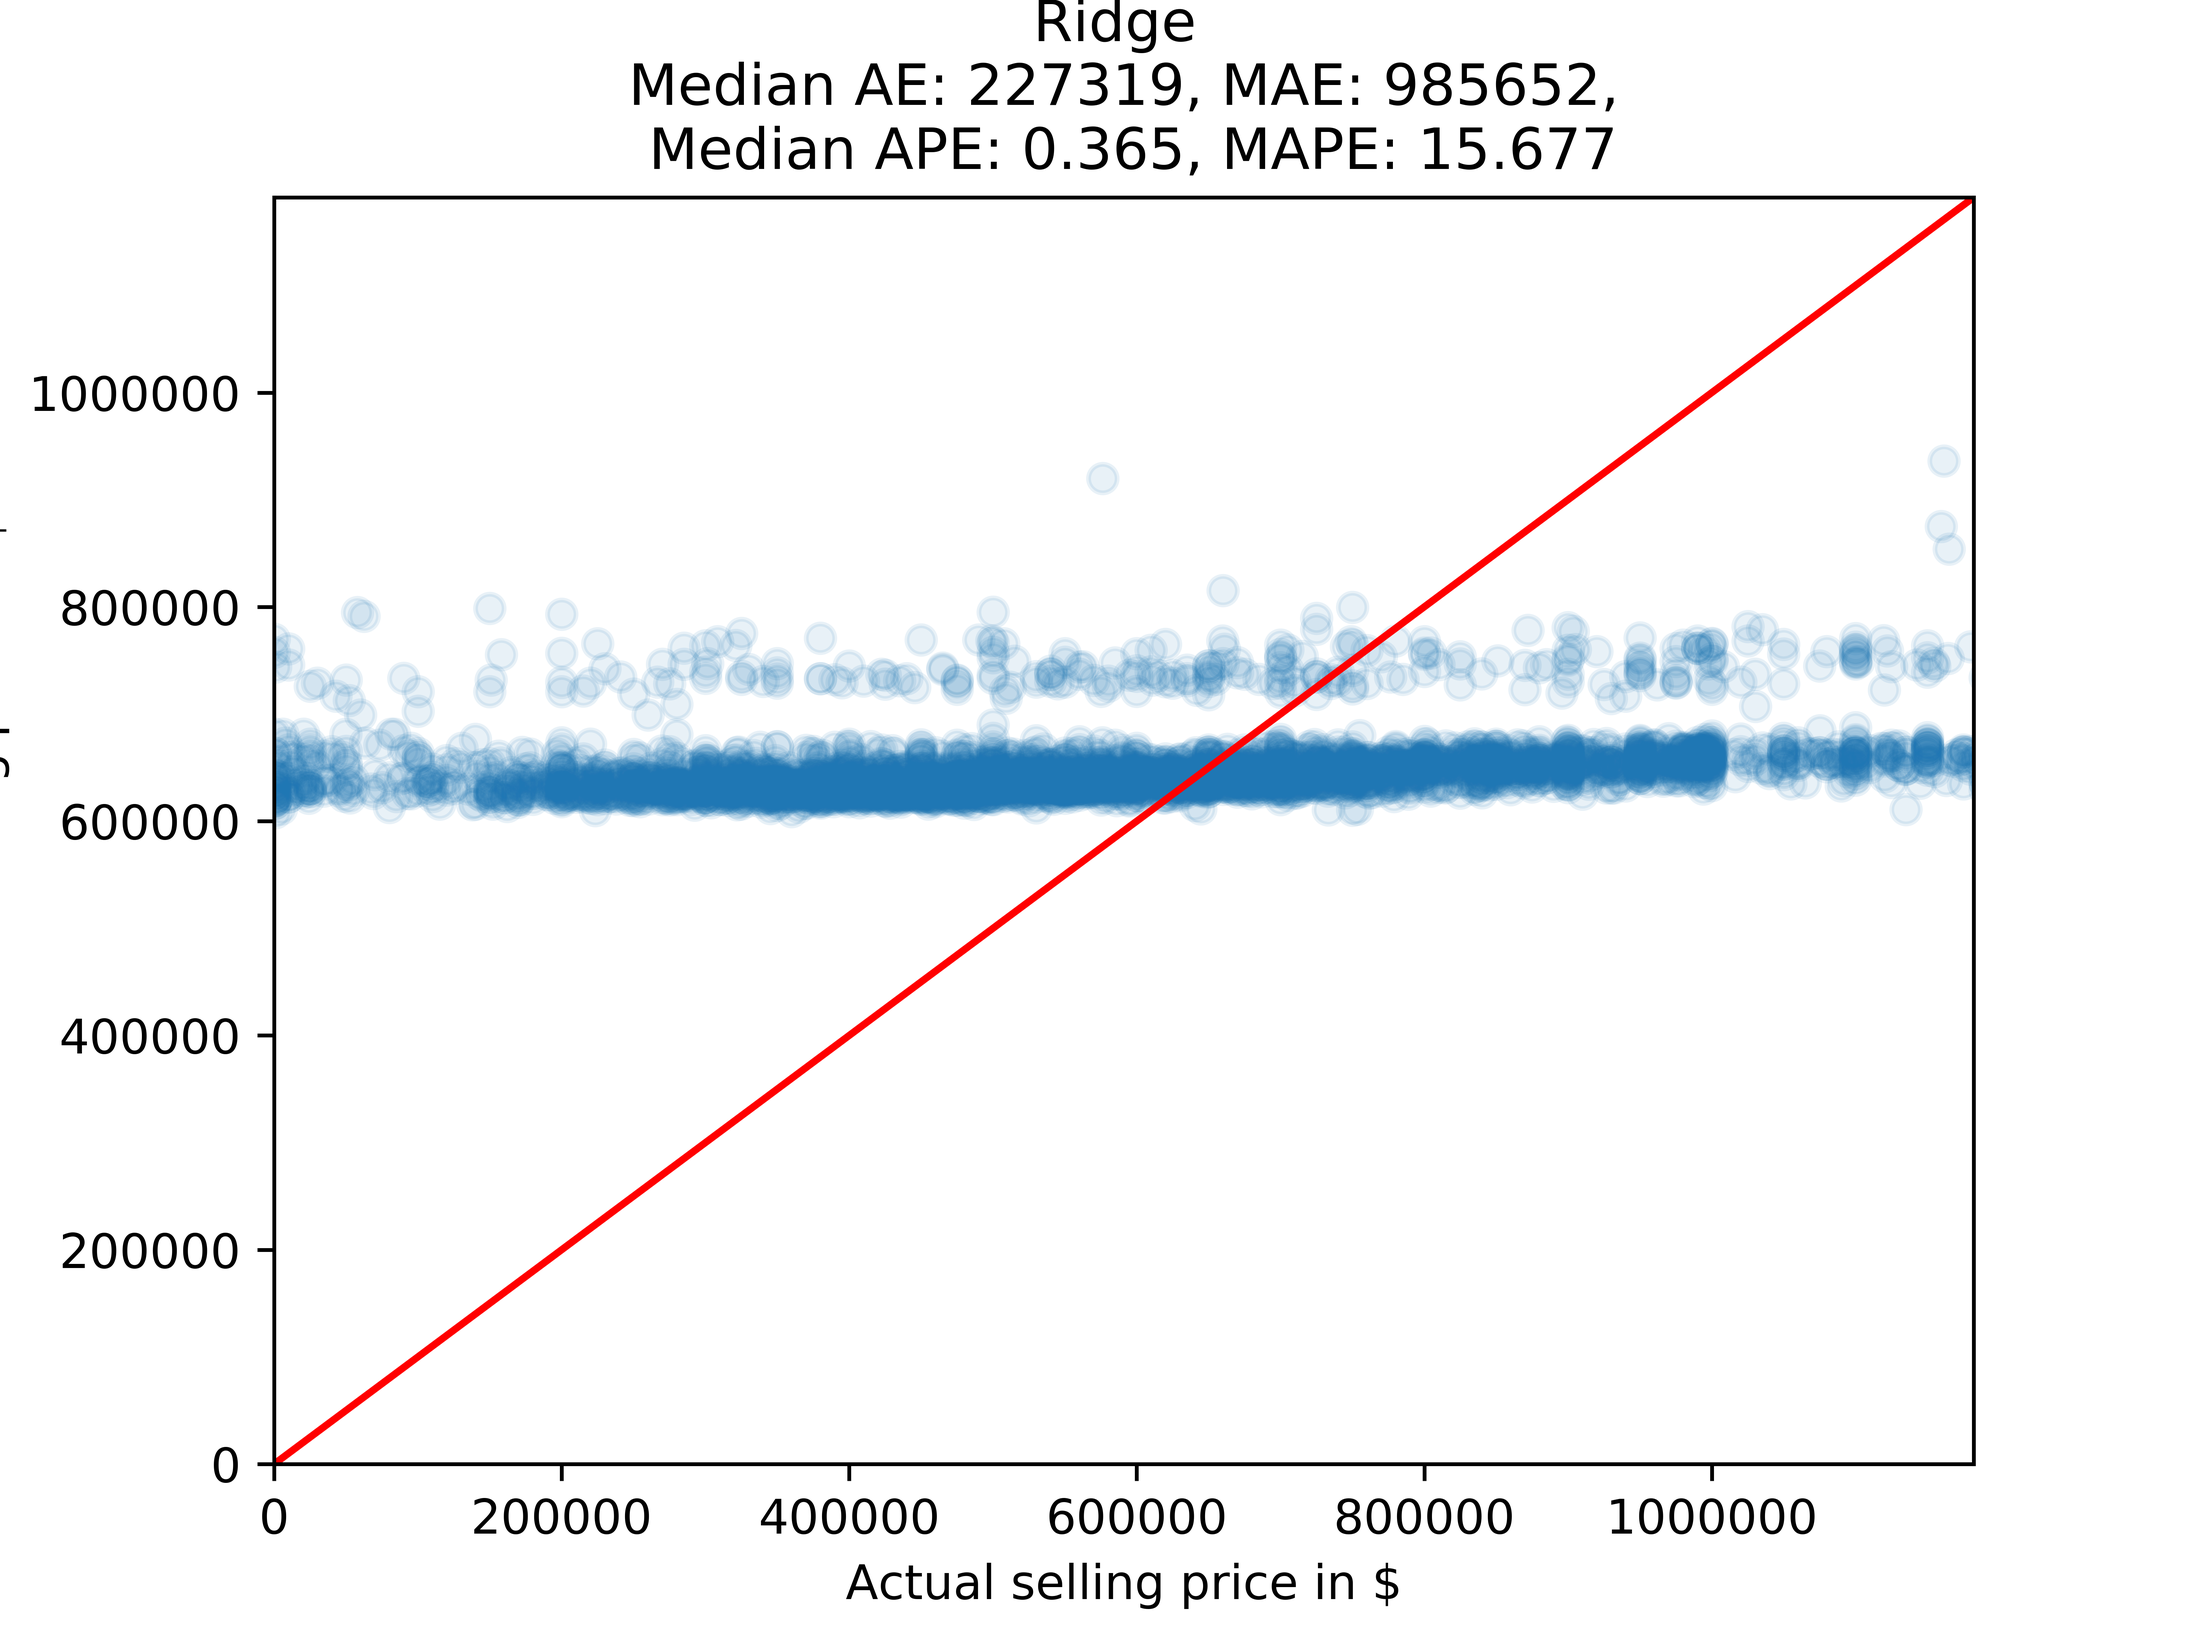
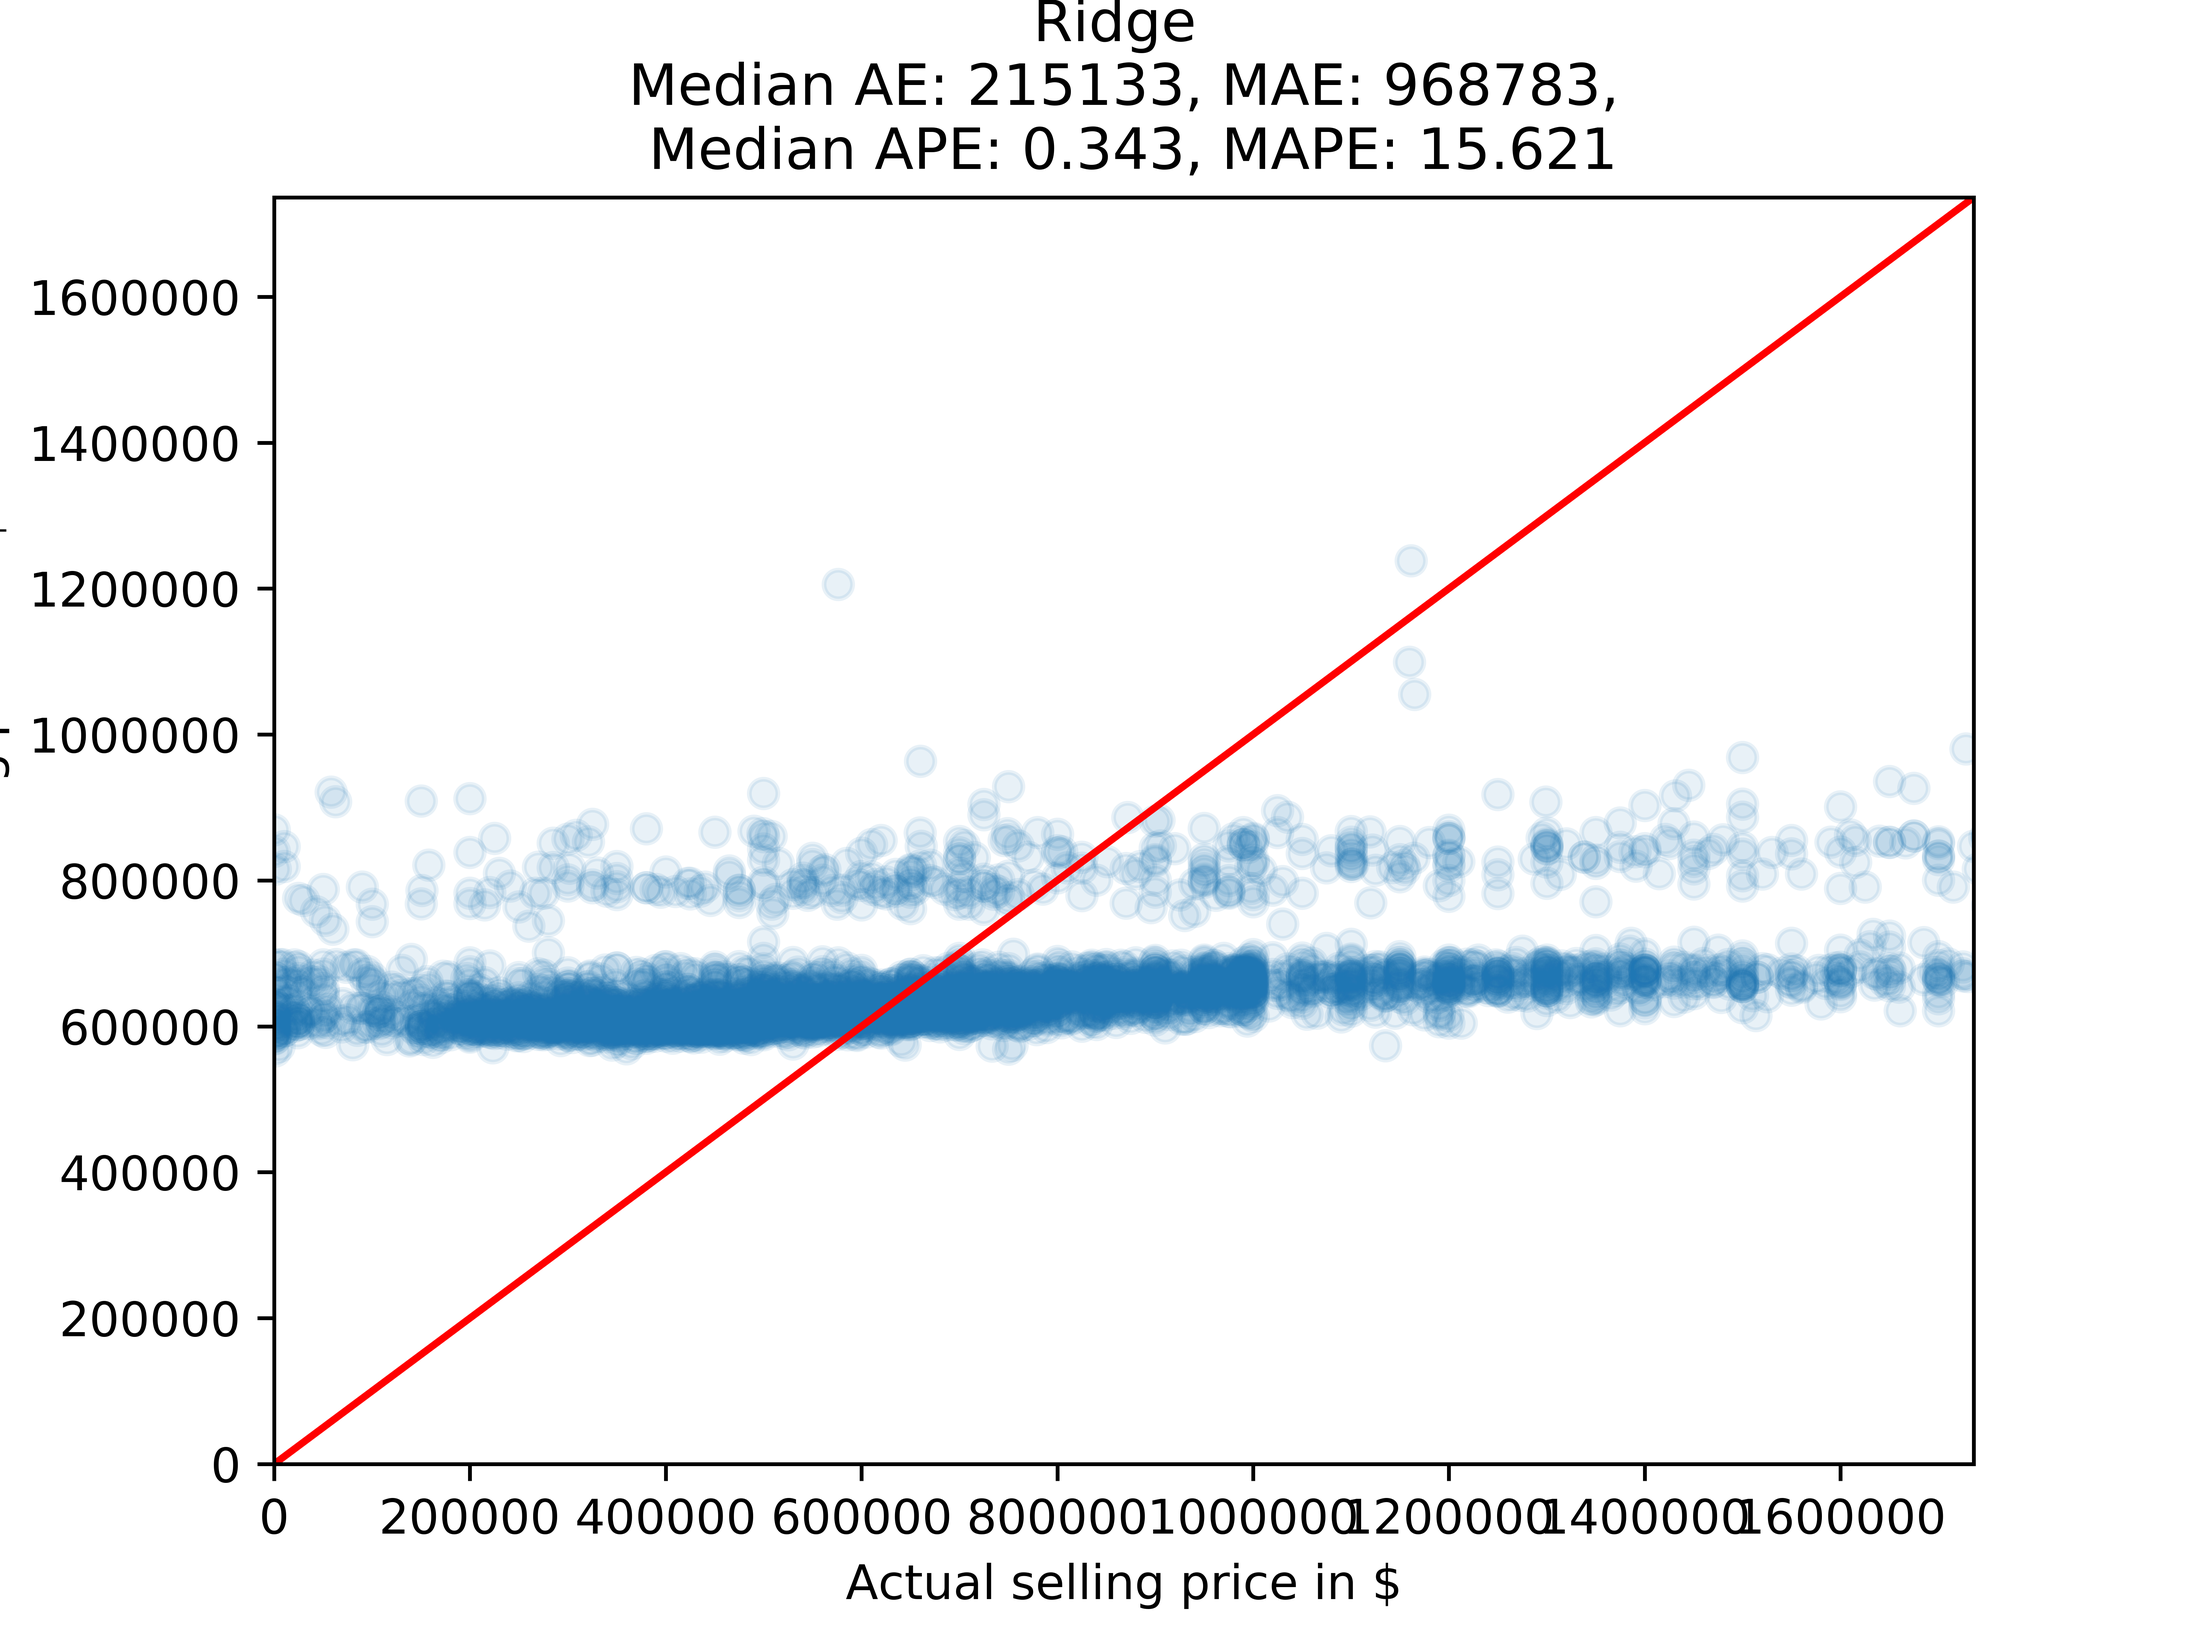
Tuned Ridge and RF models

diff --git a/tune_predict_evaluate.py b/tune_predict_evaluate.py
@@ -127,7 +127,7 @@ models.append((
         'Lasso',
         ElasticNet(normalize=True, tol=0.1),
         [{'ttregressor__regressor__l1_ratio': [1],
-          'ttregressor__regressor__alpha': [1e-1, 1e-2, 1e-3, 1e-4]}]
+          'ttregressor__regressor__alpha': [1e-1, 5e-2, 1e-2, 5e-3, 1e-3]}]
         )
 )
 
@@ -135,18 +135,19 @@ models.append((
         'Ridge',
         ElasticNet(normalize=True, tol=0.1),
         [{'ttregressor__regressor__l1_ratio': [0],
-          'ttregressor__regressor__alpha': [1e-1, 1e-2, 1e-3, 1e-4]}]
+          'ttregressor__regressor__alpha': [5e-3, 1e-3, 5e-4, 1e-4]}]
         )
 )
 
 models.append((
-        'RF',
-         RandomForestRegressor(
-                               random_state = random_seed),
-                               [{'ttregressor__regressor__max_features': [5,15,25, 35],
-                                 "ttregressor__regressor__max_depth": [9],
-                                 "ttregressor__regressor__n_estimators": [500]}])
-         )
+    'RF',
+    RandomForestRegressor(random_state=random_seed),
+    [{
+        'ttregressor__regressor__max_features': [200, 300],
+        "ttregressor__regressor__max_depth": [15],
+        "ttregressor__regressor__n_estimators": [500]}]
+        )
+        )
 
 # Tune and evaluate models-----------------------------------------------------
 tuned_models = []

diff --git a/README.md b/README.md
@@ -22,7 +22,9 @@ So far, the best results are attained by Gradient Boosting, with an Median absol
 
 ## To do
 
-* Extract and generated better features
-* Improve the tuning grids
+* Add in borroughs as feature
+* make nice exploratory plot
+* Tune LGM parameters
+* add in SVR
 
 The full code is located in the [pre_process file](pre_process.py) and the  [tune_predict_evaluate file](tune_predict_evaluate.py).
